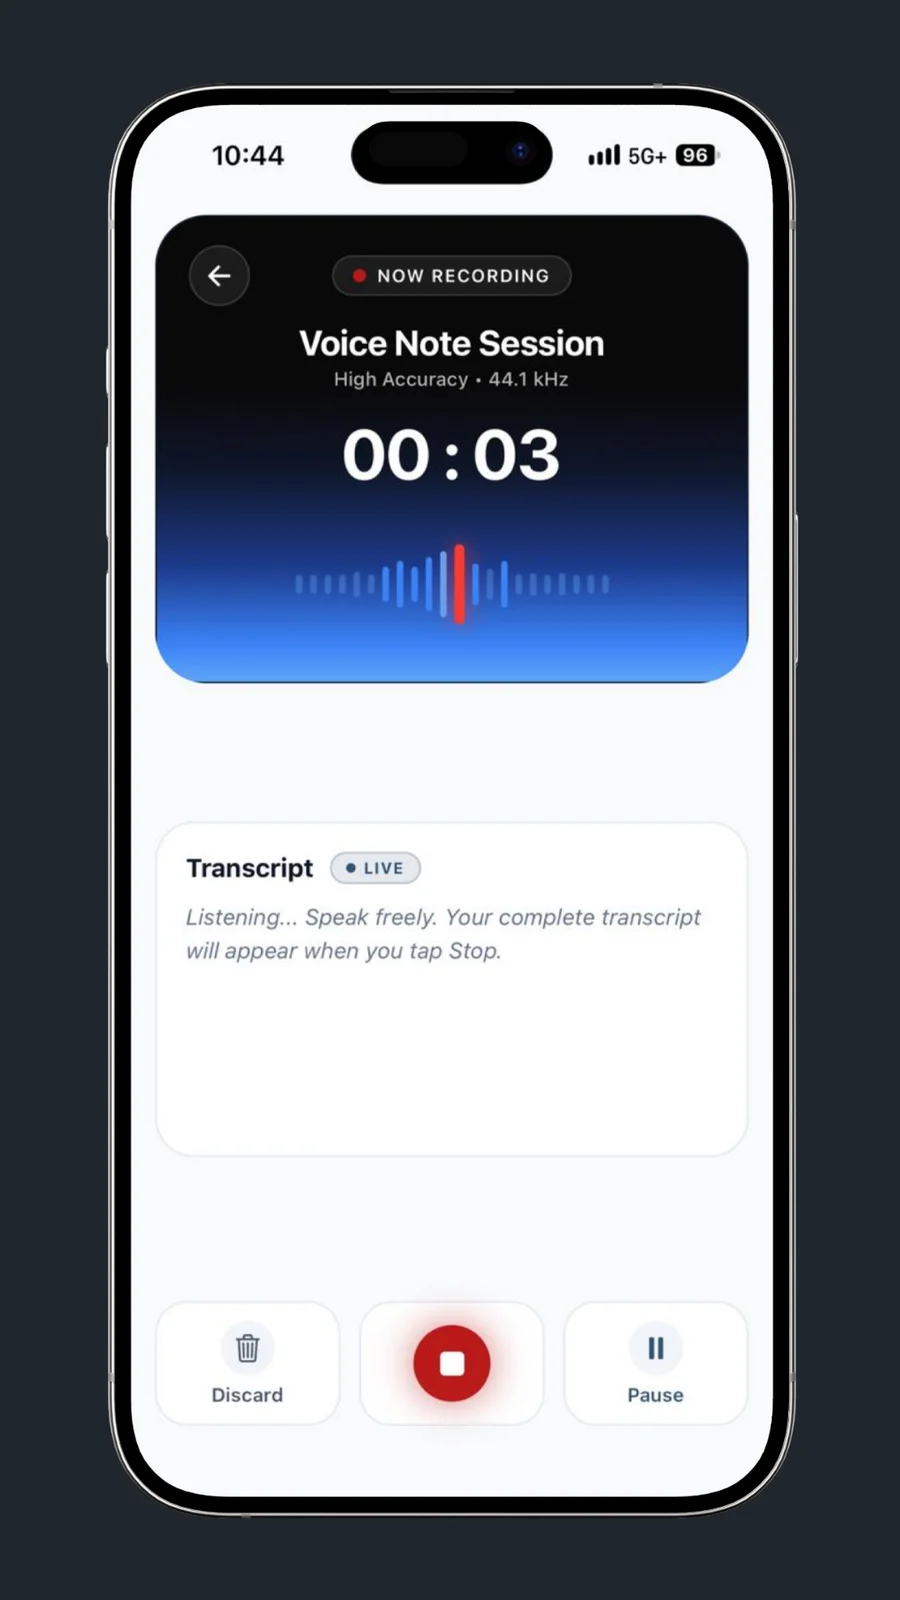
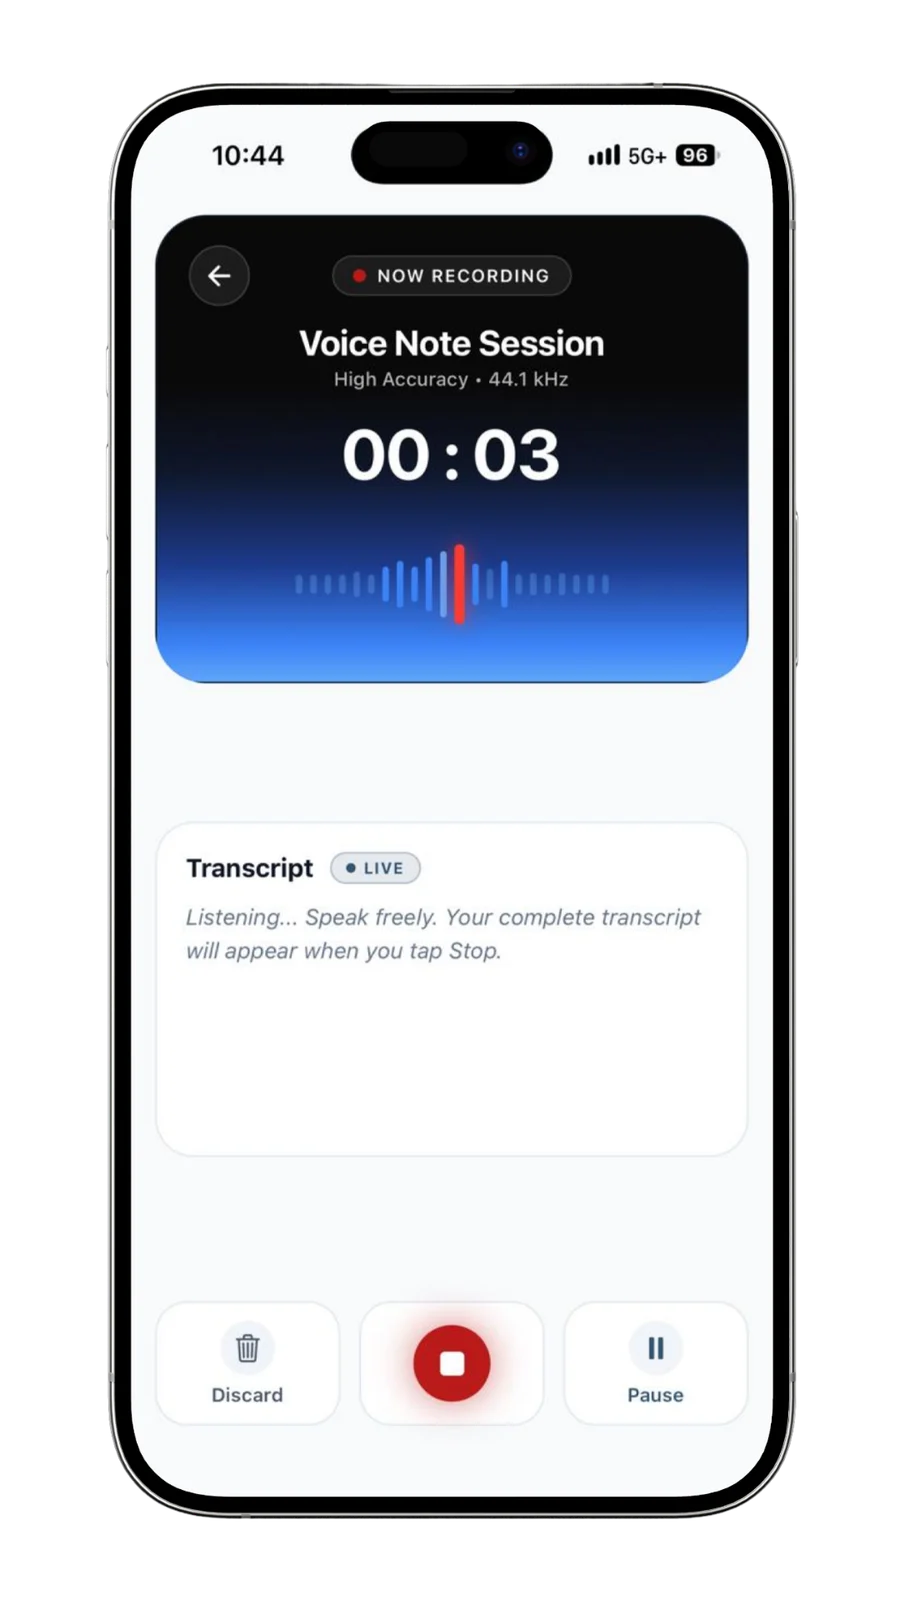
landing: update voice-ui mockup with transparent background

diff --git a/public/sw.js b/public/sw.js
@@ -1,4 +1,4 @@
-const CACHE_NAME = 'focalyst-static-v3';
+const CACHE_NAME = 'focalyst-static-v4';
 const ASSETS_TO_CACHE = [
     '/',
     '/manifest.json',
